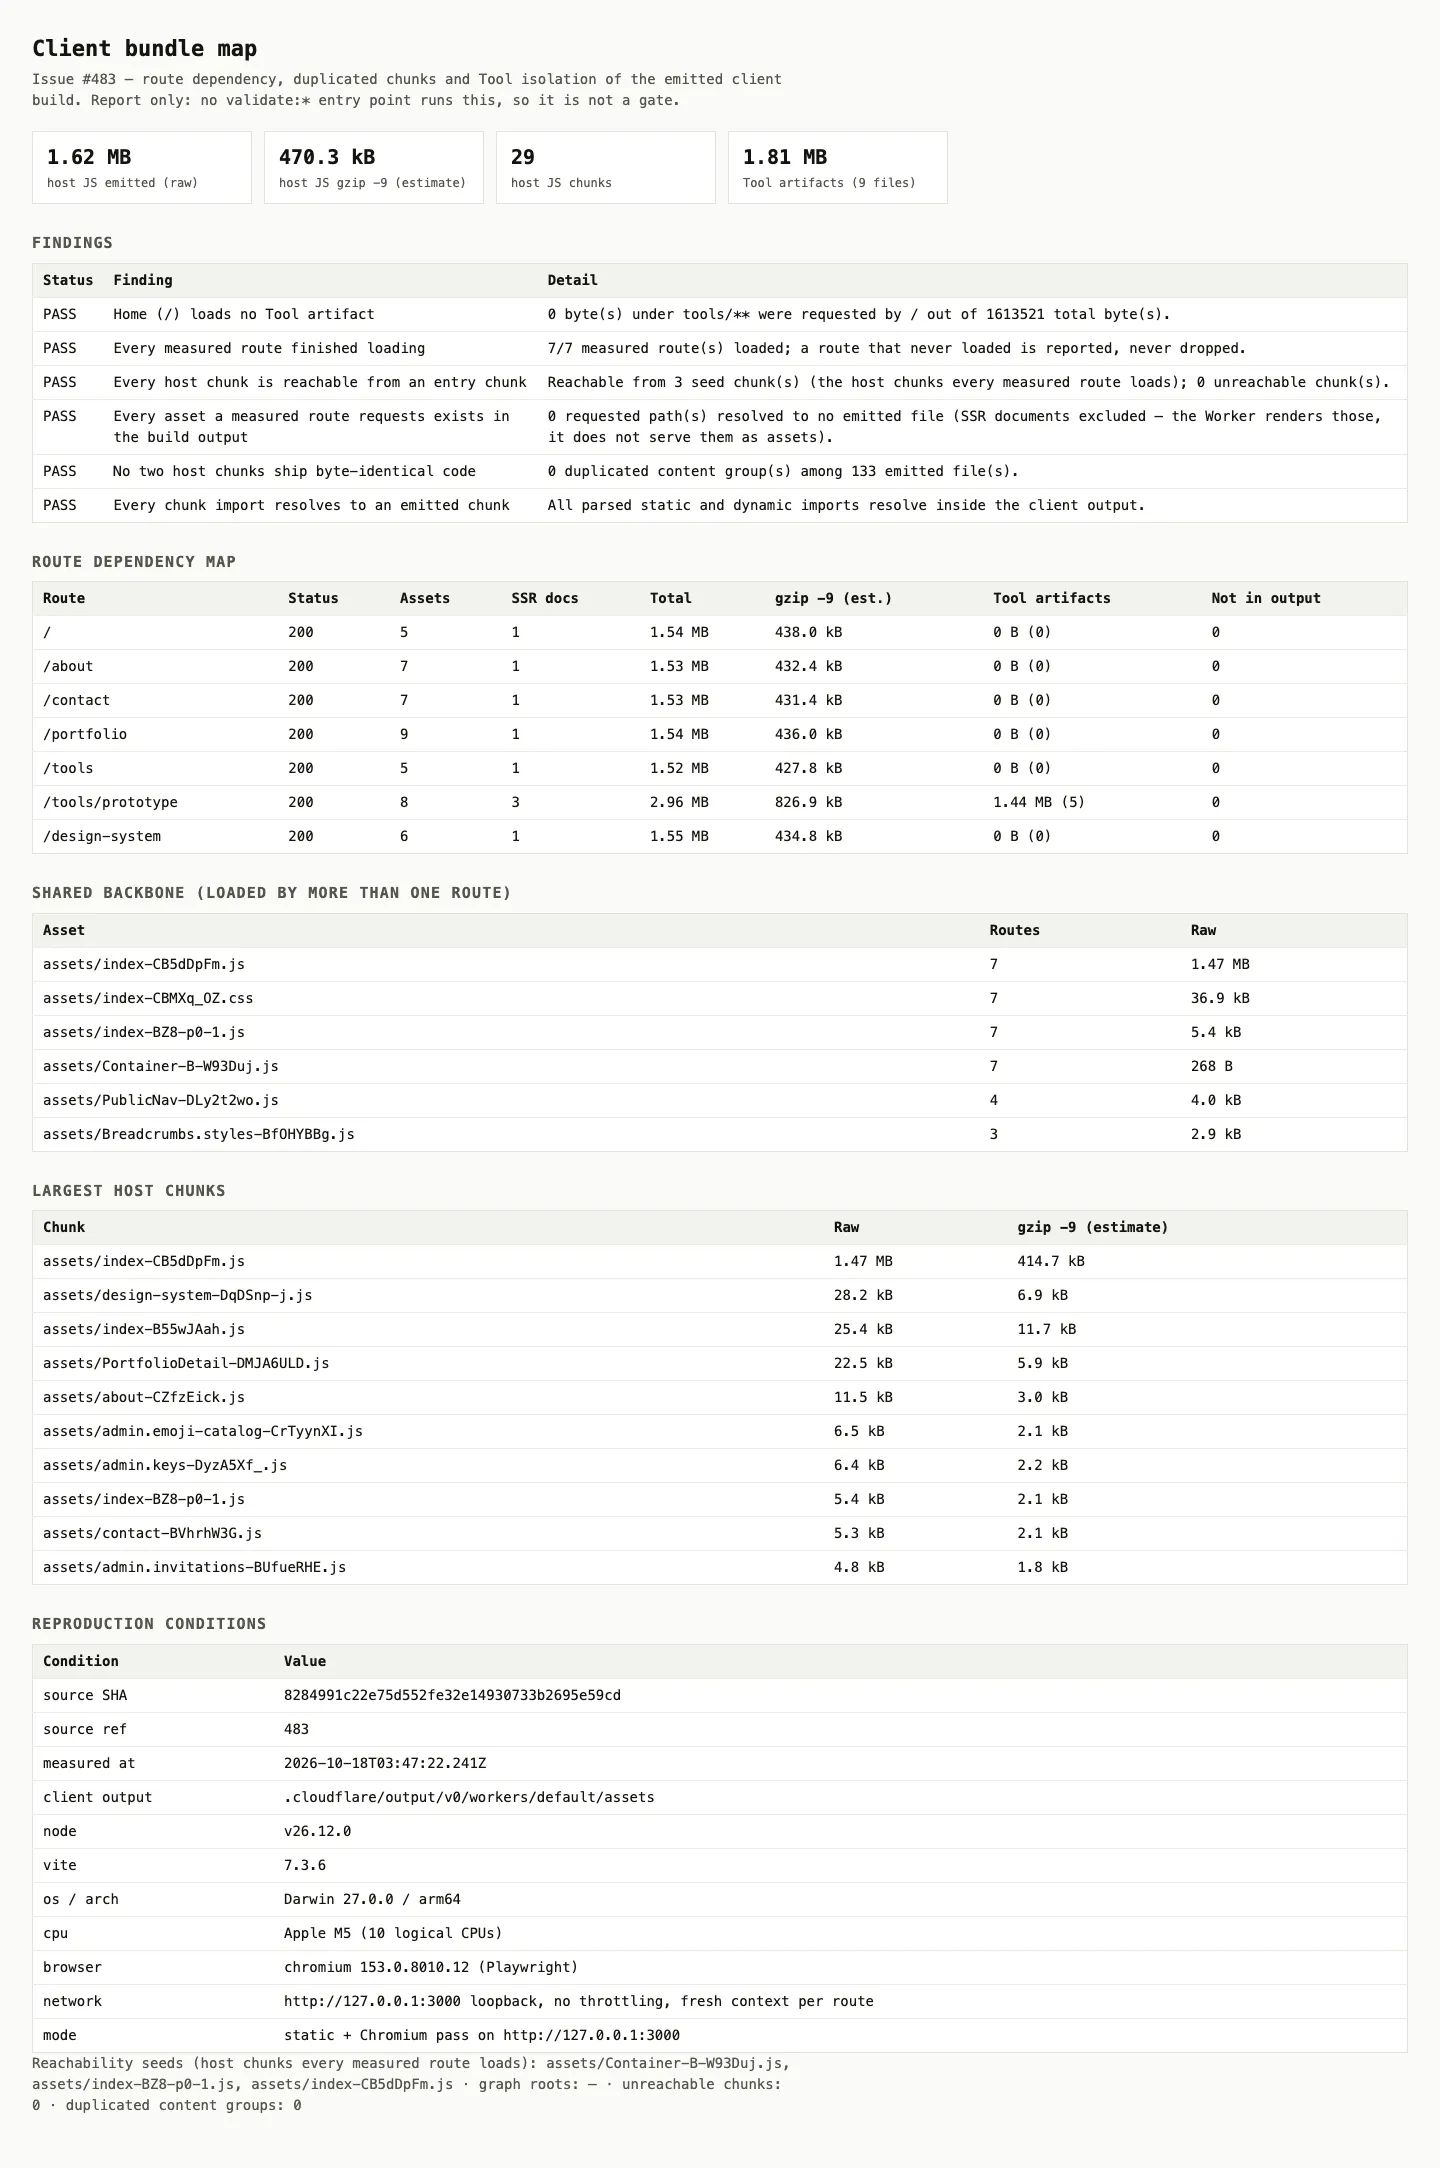
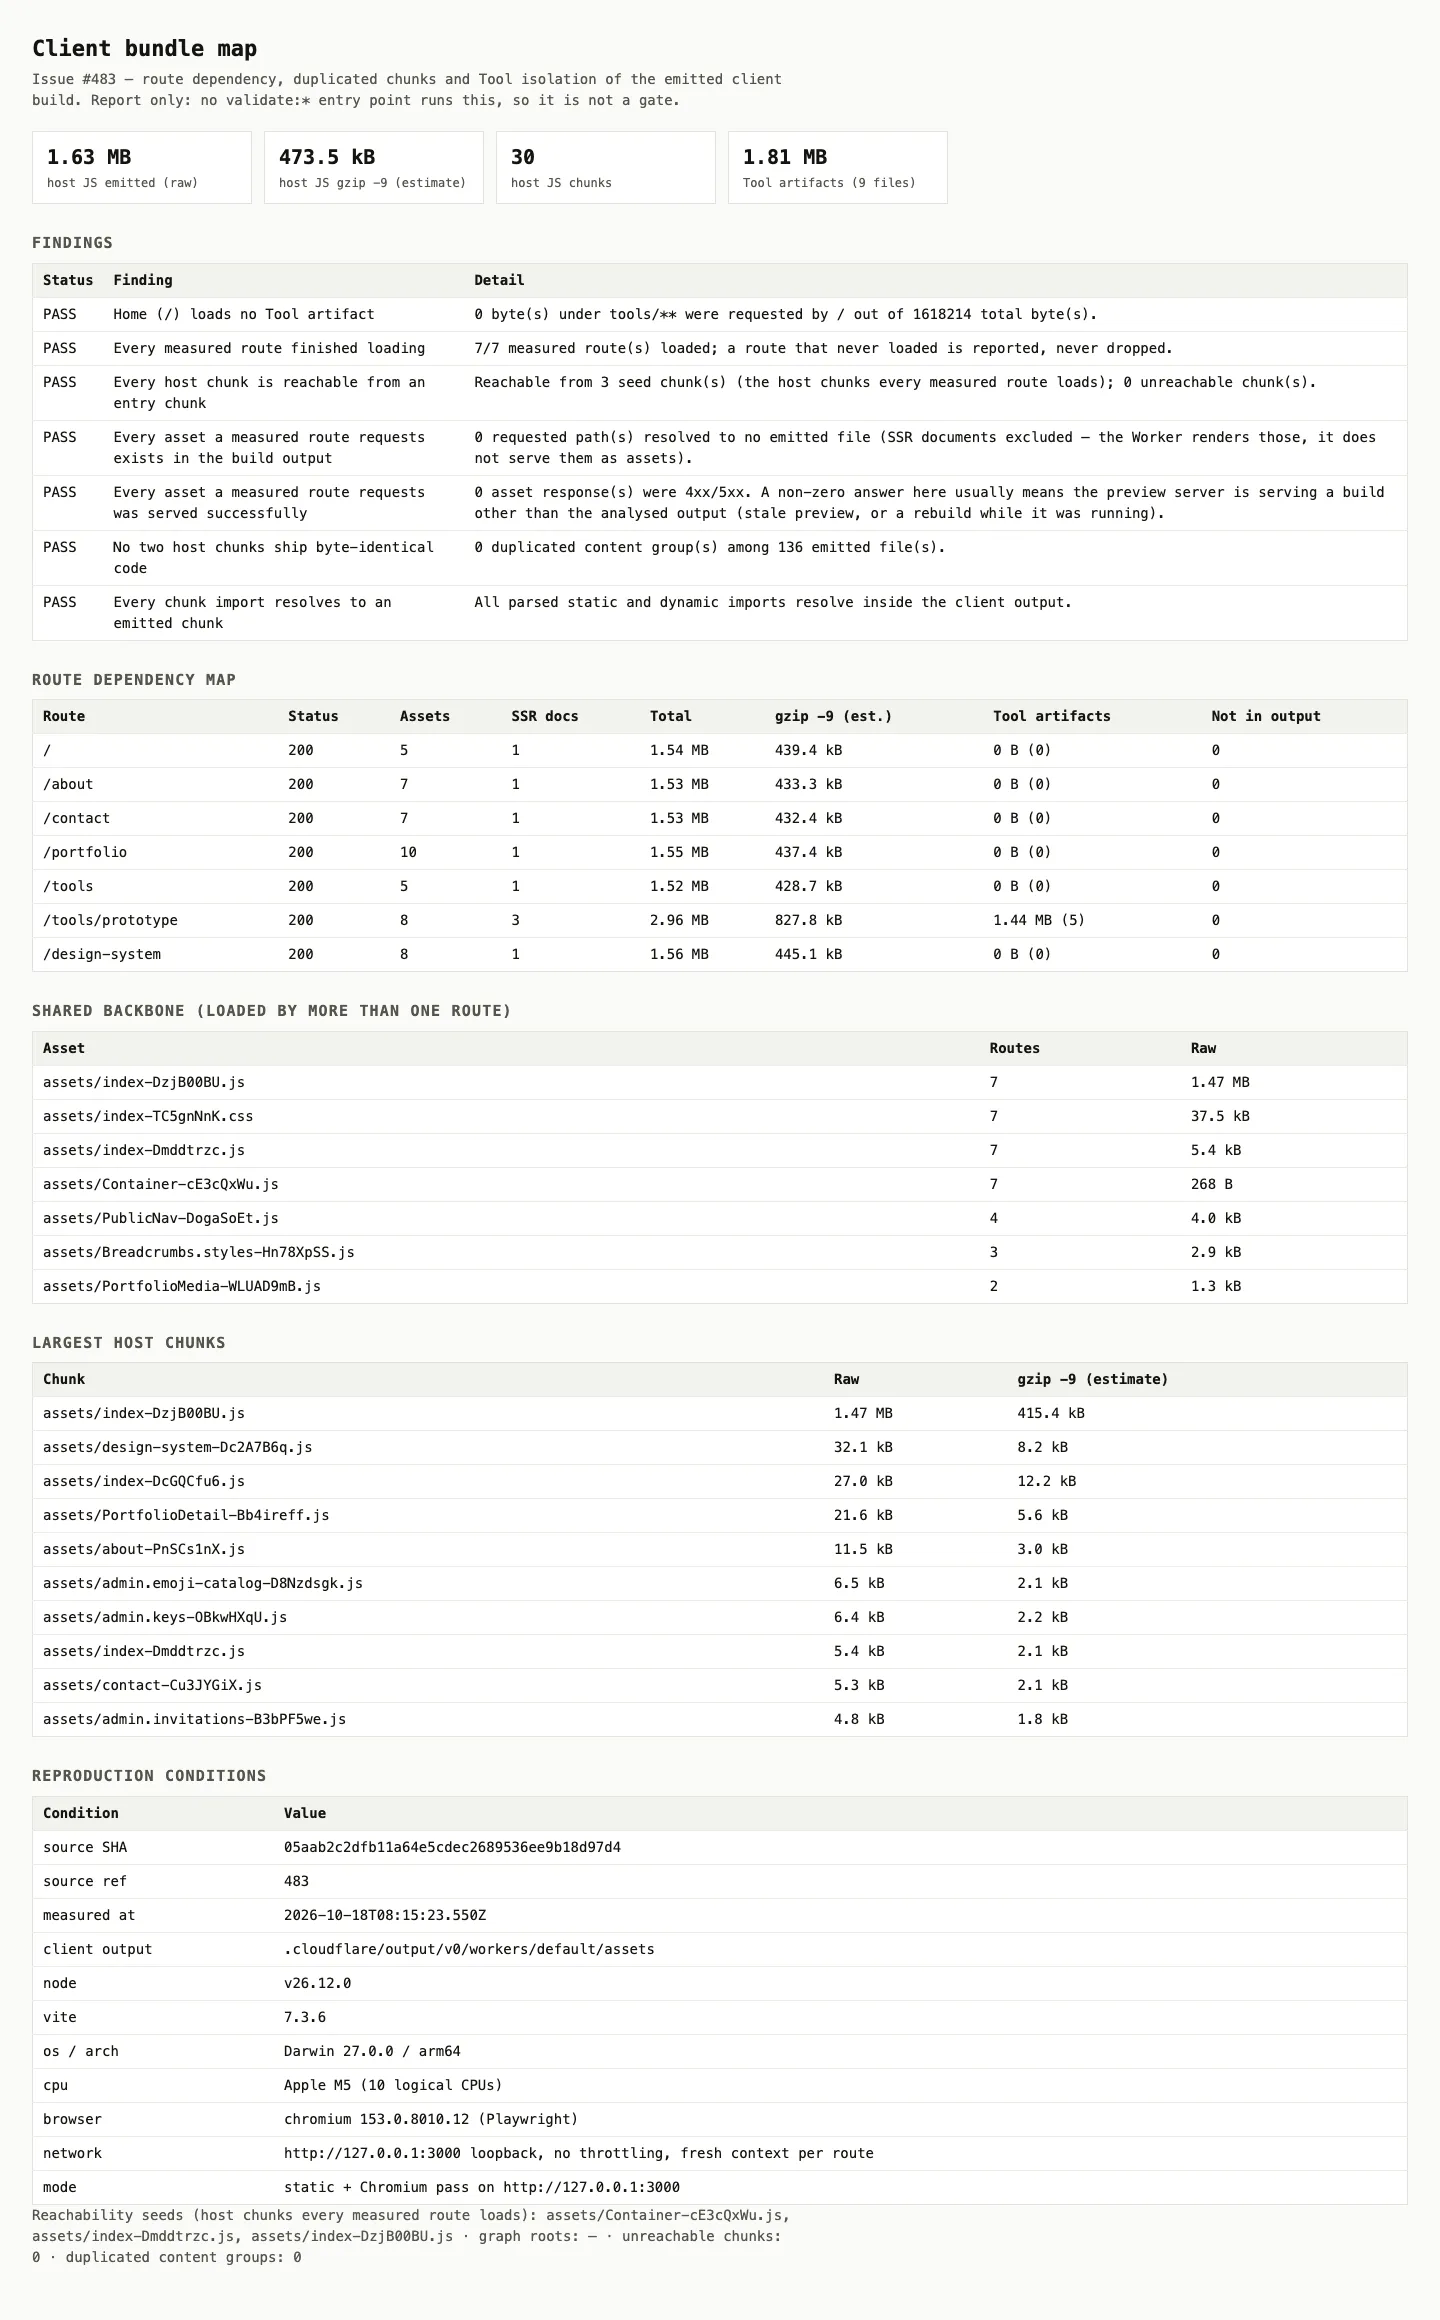
docs(verification): regenerate the bundle map on the merged release-0-6-3 tree (#483)
release-0-6-3 moved under this branch (def7113), so the snapshot is
re-measured against the merged build rather than the pre-merge one. All
7 findings pass: Home 1,618,214 byte with 0 byte from tools/**, 0
unreachable chunks, 0 byte-identical chunks, 0 failed asset responses.

diff --git a/docs/verification/perf/bundle-map.md b/docs/verification/perf/bundle-map.md
@@ -2,15 +2,15 @@
 
 Generated by `pnpm run verify:bundle-map` (Issue #483). This is a **report, not a gate**: no `validate:*` entry point runs it, so it never blocks a build or a release. Regenerate it whenever the client chunking changes.
 
-Client output analysed: `.cloudflare/output/v0/workers/default/assets` (133 emitted files).
+Client output analysed: `.cloudflare/output/v0/workers/default/assets` (136 emitted files).
 
 ## Reproduction conditions
 
 | Condition | Value |
 | --- | --- |
-| source SHA | `8284991c22e75d552fe32e14930733b2695e59cd` |
+| source SHA | `05aab2c2dfb11a64e5cdec2689536ee9b18d97d4` |
 | source ref | `483` |
-| measured at | `2026-10-18T03:47:22.241Z` |
+| measured at | `2026-10-18T08:15:23.550Z` |
 | client output | `.cloudflare/output/v0/workers/default/assets` |
 | node | `v26.12.0` |
 | vite | `7.3.6` |
@@ -24,91 +24,94 @@ Client output analysed: `.cloudflare/output/v0/workers/default/assets` (133 emit
 
 | Status | Finding | Detail |
 | --- | --- | --- |
-| PASS | Home (/) loads no Tool artifact | 0 byte(s) under tools/** were requested by / out of 1613521 total byte(s). |
+| PASS | Home (/) loads no Tool artifact | 0 byte(s) under tools/** were requested by / out of 1618214 total byte(s). |
 | PASS | Every measured route finished loading | 7/7 measured route(s) loaded; a route that never loaded is reported, never dropped. |
 | PASS | Every host chunk is reachable from an entry chunk | Reachable from 3 seed chunk(s) (the host chunks every measured route loads); 0 unreachable chunk(s). |
 | PASS | Every asset a measured route requests exists in the build output | 0 requested path(s) resolved to no emitted file (SSR documents excluded — the Worker renders those, it does not serve them as assets). |
-| PASS | No two host chunks ship byte-identical code | 0 duplicated content group(s) among 133 emitted file(s). |
+| PASS | Every asset a measured route requests was served successfully | 0 asset response(s) were 4xx/5xx. A non-zero answer here usually means the preview server is serving a build other than the analysed output (stale preview, or a rebuild while it was running). |
+| PASS | No two host chunks ship byte-identical code | 0 duplicated content group(s) among 136 emitted file(s). |
 | PASS | Every chunk import resolves to an emitted chunk | All parsed static and dynamic imports resolve inside the client output. |
 
 ## Emitted client output
 
 | Bucket | Files | Raw | gzip -9 (estimate) |
 | --- | --- | --- | --- |
-| host JS chunks (`assets/**.js`) | 29 | 1.62 MB | 470.3 kB |
-| host CSS (`assets/**.css`) | 1 | 36.9 kB | 9.2 kB |
+| host JS chunks (`assets/**.js`) | 30 | 1.63 MB | 473.5 kB |
+| host CSS (`assets/**.css`) | 1 | 37.5 kB | 9.4 kB |
 | Tool artifacts (`tools/**`) | 9 | 1.81 MB | n/a |
-| other static files | 94 | 11.95 MB | n/a |
+| other static files | 96 | 11.96 MB | n/a |
 
 Largest host chunks (this is where an unexpectedly heavy dependency shows up):
 
 | Chunk | Raw | gzip -9 (estimate) |
 | --- | --- | --- |
-| `assets/index-CB5dDpFm.js` | 1.47 MB | 414.7 kB |
-| `assets/design-system-DqDSnp-j.js` | 28.2 kB | 6.9 kB |
-| `assets/index-B55wJAah.js` | 25.4 kB | 11.7 kB |
-| `assets/PortfolioDetail-DMJA6ULD.js` | 22.5 kB | 5.9 kB |
-| `assets/about-CZfzEick.js` | 11.5 kB | 3.0 kB |
-| `assets/admin.emoji-catalog-CrTyynXI.js` | 6.5 kB | 2.1 kB |
-| `assets/admin.keys-DyzA5Xf_.js` | 6.4 kB | 2.2 kB |
-| `assets/index-BZ8-p0-1.js` | 5.4 kB | 2.1 kB |
-| `assets/contact-BVhrhW3G.js` | 5.3 kB | 2.1 kB |
-| `assets/admin.invitations-BUfueRHE.js` | 4.8 kB | 1.8 kB |
-| `assets/admin.images-DpPE_GFW.js` | 4.6 kB | 2.0 kB |
-| `assets/tools.index-CW8kkfpX.js` | 4.5 kB | 1.5 kB |
+| `assets/index-DzjB00BU.js` | 1.47 MB | 415.4 kB |
+| `assets/design-system-Dc2A7B6q.js` | 32.1 kB | 8.2 kB |
+| `assets/index-DcGQCfu6.js` | 27.0 kB | 12.2 kB |
+| `assets/PortfolioDetail-Bb4ireff.js` | 21.6 kB | 5.6 kB |
+| `assets/about-PnSCs1nX.js` | 11.5 kB | 3.0 kB |
+| `assets/admin.emoji-catalog-D8Nzdsgk.js` | 6.5 kB | 2.1 kB |
+| `assets/admin.keys-OBkwHXqU.js` | 6.4 kB | 2.2 kB |
+| `assets/index-Dmddtrzc.js` | 5.4 kB | 2.1 kB |
+| `assets/contact-Cu3JYGiX.js` | 5.3 kB | 2.1 kB |
+| `assets/admin.invitations-B3bPF5we.js` | 4.8 kB | 1.8 kB |
+| `assets/admin.images-DIuIF6-c.js` | 4.6 kB | 2.0 kB |
+| `assets/tools.index-D8Vecynd.js` | 4.5 kB | 1.5 kB |
 
 ## Route dependency map
 
 | Route | Status | Assets | SSR docs | Total | gzip -9 (est.) | Of which Tool artifacts | Not in output |
 | --- | --- | --- | --- | --- | --- | --- | --- |
-| `/` | 200 | 5 | 1 | 1.54 MB | 438.0 kB | 0 B (0 file(s)) | 0 |
-| `/about` | 200 | 7 | 1 | 1.53 MB | 432.4 kB | 0 B (0 file(s)) | 0 |
-| `/contact` | 200 | 7 | 1 | 1.53 MB | 431.4 kB | 0 B (0 file(s)) | 0 |
-| `/portfolio` | 200 | 9 | 1 | 1.54 MB | 436.0 kB | 0 B (0 file(s)) | 0 |
-| `/tools` | 200 | 5 | 1 | 1.52 MB | 427.8 kB | 0 B (0 file(s)) | 0 |
-| `/tools/prototype` | 200 | 8 | 3 | 2.96 MB | 826.9 kB | 1.44 MB (5 file(s)) | 0 |
-| `/design-system` | 200 | 6 | 1 | 1.55 MB | 434.8 kB | 0 B (0 file(s)) | 0 |
+| `/` | 200 | 5 | 1 | 1.54 MB | 439.4 kB | 0 B (0 file(s)) | 0 |
+| `/about` | 200 | 7 | 1 | 1.53 MB | 433.3 kB | 0 B (0 file(s)) | 0 |
+| `/contact` | 200 | 7 | 1 | 1.53 MB | 432.4 kB | 0 B (0 file(s)) | 0 |
+| `/portfolio` | 200 | 10 | 1 | 1.55 MB | 437.4 kB | 0 B (0 file(s)) | 0 |
+| `/tools` | 200 | 5 | 1 | 1.52 MB | 428.7 kB | 0 B (0 file(s)) | 0 |
+| `/tools/prototype` | 200 | 8 | 3 | 2.96 MB | 827.8 kB | 1.44 MB (5 file(s)) | 0 |
+| `/design-system` | 200 | 8 | 1 | 1.56 MB | 445.1 kB | 0 B (0 file(s)) | 0 |
 
 ### Shared backbone (assets loaded by more than one route)
 
 | Asset | Routes | Raw |
 | --- | --- | --- |
-| `assets/index-CB5dDpFm.js` | 7 | 1.47 MB |
-| `assets/index-CBMXq_OZ.css` | 7 | 36.9 kB |
-| `assets/index-BZ8-p0-1.js` | 7 | 5.4 kB |
-| `assets/Container-B-W93Duj.js` | 7 | 268 B |
-| `assets/PublicNav-DLy2t2wo.js` | 4 | 4.0 kB |
-| `assets/Breadcrumbs.styles-BfOHYBBg.js` | 3 | 2.9 kB |
+| `assets/index-DzjB00BU.js` | 7 | 1.47 MB |
+| `assets/index-TC5gnNnK.css` | 7 | 37.5 kB |
+| `assets/index-Dmddtrzc.js` | 7 | 5.4 kB |
+| `assets/Container-cE3cQxWu.js` | 7 | 268 B |
+| `assets/PublicNav-DogaSoEt.js` | 4 | 4.0 kB |
+| `assets/Breadcrumbs.styles-Hn78XpSS.js` | 3 | 2.9 kB |
+| `assets/PortfolioMedia-WLUAD9mB.js` | 2 | 1.3 kB |
 
 ## Chunk graph
 
 | Chunk | Static imports | Lazy imports |
 | --- | --- | --- |
-| `assets/_slug-BFMp6w4H.js` | `assets/Breadcrumbs.styles-BfOHYBBg.js` `assets/Container-B-W93Duj.js` `assets/PortfolioDetail-DMJA6ULD.js` `assets/PublicNav-DLy2t2wo.js` `assets/index-CB5dDpFm.js` |  |
-| `assets/about-CZfzEick.js` | `assets/Breadcrumbs.styles-BfOHYBBg.js` `assets/Container-B-W93Duj.js` `assets/PublicNav-DLy2t2wo.js` `assets/index-CB5dDpFm.js` |  |
-| `assets/admin-DAAnQT5t.js` | `assets/index-CB5dDpFm.js` |  |
-| `assets/admin.emoji-catalog-CrTyynXI.js` | `assets/Container-B-W93Duj.js` `assets/index-CB5dDpFm.js` `assets/useServerFn-Wz6S4JE5.js` |  |
-| `assets/admin.images-DpPE_GFW.js` | `assets/Container-B-W93Duj.js` `assets/index-CB5dDpFm.js` `assets/useServerFn-Wz6S4JE5.js` |  |
-| `assets/admin.index-bXuXFOQ7.js` | `assets/Container-B-W93Duj.js` `assets/index-CB5dDpFm.js` |  |
-| `assets/admin.invitations_.accept-Dk7zVAEg.js` | `assets/Container-B-W93Duj.js` `assets/index-CB5dDpFm.js` `assets/useServerFn-Wz6S4JE5.js` |  |
-| `assets/admin.invitations-BUfueRHE.js` | `assets/Container-B-W93Duj.js` `assets/index-CB5dDpFm.js` `assets/useServerFn-Wz6S4JE5.js` |  |
-| `assets/admin.keys-DyzA5Xf_.js` | `assets/Container-B-W93Duj.js` `assets/index-CB5dDpFm.js` `assets/useServerFn-Wz6S4JE5.js` |  |
-| `assets/admin.login-CLVd_AsL.js` | `assets/Container-B-W93Duj.js` `assets/index-CB5dDpFm.js` |  |
-| `assets/Breadcrumbs.styles-BfOHYBBg.js` | `assets/index-CB5dDpFm.js` |  |
-| `assets/bun-sqlite-dialect-C7ftEUSI-t4BX7hIv.js` | `assets/index-CB5dDpFm.js` `assets/kysely-migration-tables-DFfmKhq--BgyPPTQQ.js` |  |
-| `assets/contact-BVhrhW3G.js` | `assets/Breadcrumbs.styles-BfOHYBBg.js` `assets/Container-B-W93Duj.js` `assets/PublicNav-DLy2t2wo.js` `assets/index-CB5dDpFm.js` |  |
-| `assets/Container-B-W93Duj.js` | `assets/index-CB5dDpFm.js` |  |
-| `assets/d1-sqlite-dialect-D4qp4-wW-eLljq_Ak.js` | `assets/index-CB5dDpFm.js` `assets/kysely-migration-tables-DFfmKhq--BgyPPTQQ.js` |  |
-| `assets/design-system-DqDSnp-j.js` | `assets/Container-B-W93Duj.js` `assets/PublicNav-DLy2t2wo.js` `assets/index-CB5dDpFm.js` |  |
-| `assets/index-B55wJAah.js` | `assets/Container-B-W93Duj.js` `assets/index-CB5dDpFm.js` |  |
-| `assets/index-BR9zY5SD.js` | `assets/Breadcrumbs.styles-BfOHYBBg.js` `assets/Container-B-W93Duj.js` `assets/PortfolioDetail-DMJA6ULD.js` `assets/PublicNav-DLy2t2wo.js` `assets/index-CB5dDpFm.js` `assets/useServerFn-Wz6S4JE5.js` |  |
-| `assets/index-BZ8-p0-1.js` | `assets/index-CB5dDpFm.js` |  |
-| `assets/index-CB5dDpFm.js` |  | `assets/_slug-BFMp6w4H.js` `assets/about-CZfzEick.js` `assets/admin-DAAnQT5t.js` `assets/admin.emoji-catalog-CrTyynXI.js` `assets/admin.images-DpPE_GFW.js` `assets/admin.index-bXuXFOQ7.js` `assets/admin.invitations-BUfueRHE.js` `assets/admin.invitations_.accept-Dk7zVAEg.js` `assets/admin.keys-DyzA5Xf_.js` `assets/admin.login-CLVd_AsL.js` `assets/bun-sqlite-dialect-C7ftEUSI-t4BX7hIv.js` `assets/contact-BVhrhW3G.js` `assets/d1-sqlite-dialect-D4qp4-wW-eLljq_Ak.js` `assets/design-system-DqDSnp-j.js` `assets/index-B55wJAah.js` `assets/index-BR9zY5SD.js` `assets/index-BZ8-p0-1.js` `assets/index-ys5ulXEV.js` `assets/node-sqlite-dialect-6mvHrRUt.js` `assets/tools._slug-BrUZcMjD.js` `assets/tools._slug-CAH7RJgJ.js` `assets/tools.index-CW8kkfpX.js` |
-| `assets/index-ys5ulXEV.js` | `assets/index-CB5dDpFm.js` |  |
-| `assets/node-sqlite-dialect-6mvHrRUt.js` | `assets/index-CB5dDpFm.js` `assets/kysely-migration-tables-DFfmKhq--BgyPPTQQ.js` |  |
-| `assets/PortfolioDetail-DMJA6ULD.js` | `assets/Container-B-W93Duj.js` `assets/index-CB5dDpFm.js` |  |
-| `assets/PublicNav-DLy2t2wo.js` | `assets/index-CB5dDpFm.js` |  |
-| `assets/tools._slug-BrUZcMjD.js` | `assets/Container-B-W93Duj.js` `assets/index-CB5dDpFm.js` |  |
-| `assets/tools._slug-CAH7RJgJ.js` | `assets/Container-B-W93Duj.js` `assets/index-CB5dDpFm.js` |  |
-| `assets/tools.index-CW8kkfpX.js` | `assets/Container-B-W93Duj.js` `assets/index-CB5dDpFm.js` |  |
-| `assets/useServerFn-Wz6S4JE5.js` | `assets/index-CB5dDpFm.js` |  |
+| `assets/_slug-BFdCqgKP.js` | `assets/Breadcrumbs.styles-Hn78XpSS.js` `assets/Container-cE3cQxWu.js` `assets/PortfolioDetail-Bb4ireff.js` `assets/PortfolioMedia-WLUAD9mB.js` `assets/PublicNav-DogaSoEt.js` `assets/index-DzjB00BU.js` |  |
+| `assets/about-PnSCs1nX.js` | `assets/Breadcrumbs.styles-Hn78XpSS.js` `assets/Container-cE3cQxWu.js` `assets/PublicNav-DogaSoEt.js` `assets/index-DzjB00BU.js` |  |
+| `assets/admin-C_qNAK4R.js` | `assets/index-DzjB00BU.js` |  |
+| `assets/admin.emoji-catalog-D8Nzdsgk.js` | `assets/Container-cE3cQxWu.js` `assets/index-DzjB00BU.js` `assets/useServerFn-DwGx83kT.js` |  |
+| `assets/admin.images-DIuIF6-c.js` | `assets/Container-cE3cQxWu.js` `assets/index-DzjB00BU.js` `assets/useServerFn-DwGx83kT.js` |  |
+| `assets/admin.index-0CoPiFy1.js` | `assets/Container-cE3cQxWu.js` `assets/index-DzjB00BU.js` |  |
+| `assets/admin.invitations_.accept-BorD4Bwt.js` | `assets/Container-cE3cQxWu.js` `assets/index-DzjB00BU.js` `assets/useServerFn-DwGx83kT.js` |  |
+| `assets/admin.invitations-B3bPF5we.js` | `assets/Container-cE3cQxWu.js` `assets/index-DzjB00BU.js` `assets/useServerFn-DwGx83kT.js` |  |
+| `assets/admin.keys-OBkwHXqU.js` | `assets/Container-cE3cQxWu.js` `assets/index-DzjB00BU.js` `assets/useServerFn-DwGx83kT.js` |  |
+| `assets/admin.login-CJJgrJCo.js` | `assets/Container-cE3cQxWu.js` `assets/index-DzjB00BU.js` |  |
+| `assets/Breadcrumbs.styles-Hn78XpSS.js` | `assets/index-DzjB00BU.js` |  |
+| `assets/bun-sqlite-dialect-C7ftEUSI-BboFg-LZ.js` | `assets/index-DzjB00BU.js` `assets/kysely-migration-tables-DFfmKhq--BgyPPTQQ.js` |  |
+| `assets/contact-Cu3JYGiX.js` | `assets/Breadcrumbs.styles-Hn78XpSS.js` `assets/Container-cE3cQxWu.js` `assets/PublicNav-DogaSoEt.js` `assets/index-DzjB00BU.js` |  |
+| `assets/Container-cE3cQxWu.js` | `assets/index-DzjB00BU.js` |  |
+| `assets/d1-sqlite-dialect-D4qp4-wW-Dtwu2P0A.js` | `assets/index-DzjB00BU.js` `assets/kysely-migration-tables-DFfmKhq--BgyPPTQQ.js` |  |
+| `assets/design-system-Dc2A7B6q.js` | `assets/Container-cE3cQxWu.js` `assets/PortfolioMedia-WLUAD9mB.js` `assets/PublicNav-DogaSoEt.js` `assets/index-DzjB00BU.js` |  |
+| `assets/index-BBdLzqOr.js` | `assets/index-DzjB00BU.js` |  |
+| `assets/index-BGetrE3G.js` | `assets/Breadcrumbs.styles-Hn78XpSS.js` `assets/Container-cE3cQxWu.js` `assets/PortfolioDetail-Bb4ireff.js` `assets/PortfolioMedia-WLUAD9mB.js` `assets/PublicNav-DogaSoEt.js` `assets/index-DzjB00BU.js` `assets/useServerFn-DwGx83kT.js` |  |
+| `assets/index-DcGQCfu6.js` | `assets/Container-cE3cQxWu.js` `assets/index-DzjB00BU.js` |  |
+| `assets/index-Dmddtrzc.js` | `assets/index-DzjB00BU.js` |  |
+| `assets/index-DzjB00BU.js` |  | `assets/_slug-BFdCqgKP.js` `assets/about-PnSCs1nX.js` `assets/admin-C_qNAK4R.js` `assets/admin.emoji-catalog-D8Nzdsgk.js` `assets/admin.images-DIuIF6-c.js` `assets/admin.index-0CoPiFy1.js` `assets/admin.invitations-B3bPF5we.js` `assets/admin.invitations_.accept-BorD4Bwt.js` `assets/admin.keys-OBkwHXqU.js` `assets/admin.login-CJJgrJCo.js` `assets/bun-sqlite-dialect-C7ftEUSI-BboFg-LZ.js` `assets/contact-Cu3JYGiX.js` `assets/d1-sqlite-dialect-D4qp4-wW-Dtwu2P0A.js` `assets/design-system-Dc2A7B6q.js` `assets/index-BBdLzqOr.js` `assets/index-BGetrE3G.js` `assets/index-DcGQCfu6.js` `assets/index-Dmddtrzc.js` `assets/node-sqlite-dialect-CqJJYsub.js` `assets/tools._slug-CyMoh0Ev.js` `assets/tools._slug-Zy1rO1El.js` `assets/tools.index-D8Vecynd.js` |
+| `assets/node-sqlite-dialect-CqJJYsub.js` | `assets/index-DzjB00BU.js` `assets/kysely-migration-tables-DFfmKhq--BgyPPTQQ.js` |  |
+| `assets/PortfolioDetail-Bb4ireff.js` | `assets/Container-cE3cQxWu.js` `assets/PortfolioMedia-WLUAD9mB.js` `assets/index-DzjB00BU.js` |  |
+| `assets/PortfolioMedia-WLUAD9mB.js` | `assets/index-DzjB00BU.js` |  |
+| `assets/PublicNav-DogaSoEt.js` | `assets/index-DzjB00BU.js` |  |
+| `assets/tools._slug-CyMoh0Ev.js` | `assets/Container-cE3cQxWu.js` `assets/index-DzjB00BU.js` |  |
+| `assets/tools._slug-Zy1rO1El.js` | `assets/Container-cE3cQxWu.js` `assets/index-DzjB00BU.js` |  |
+| `assets/tools.index-D8Vecynd.js` | `assets/Container-cE3cQxWu.js` `assets/index-DzjB00BU.js` |  |
+| `assets/useServerFn-DwGx83kT.js` | `assets/index-DzjB00BU.js` |  |
